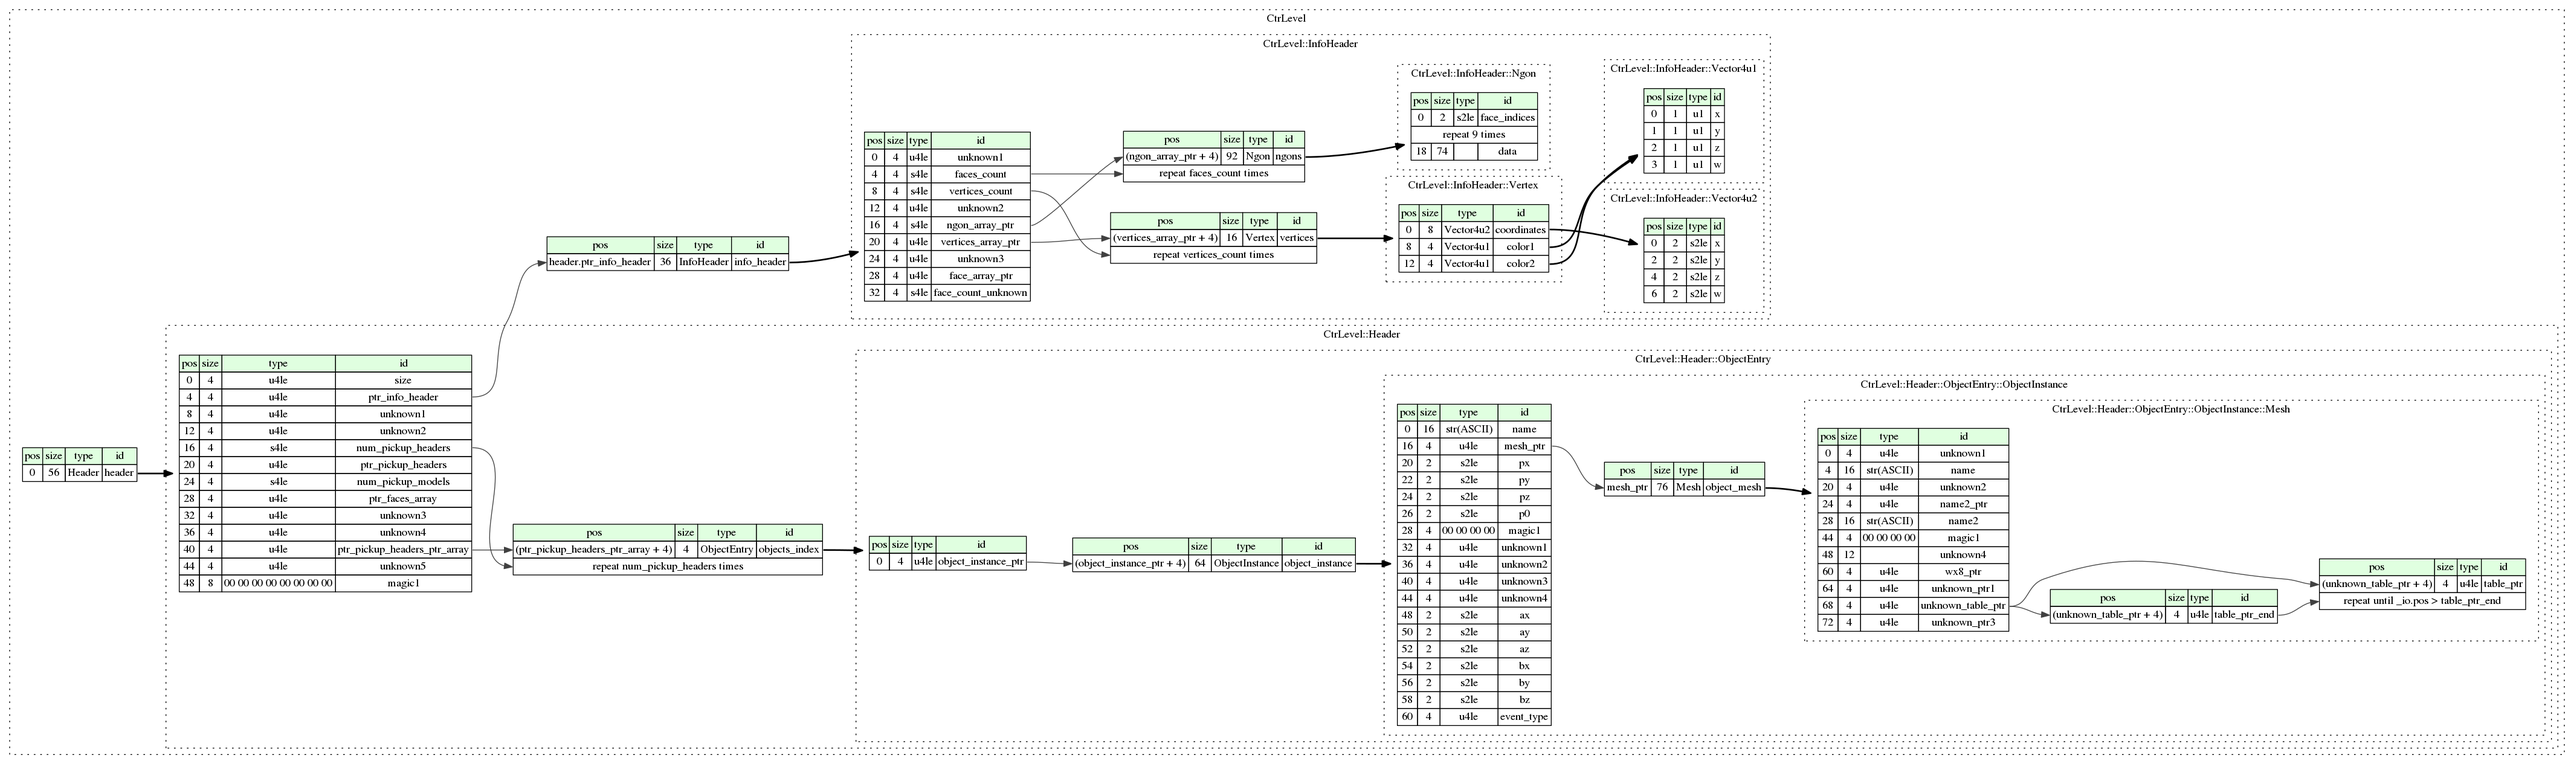
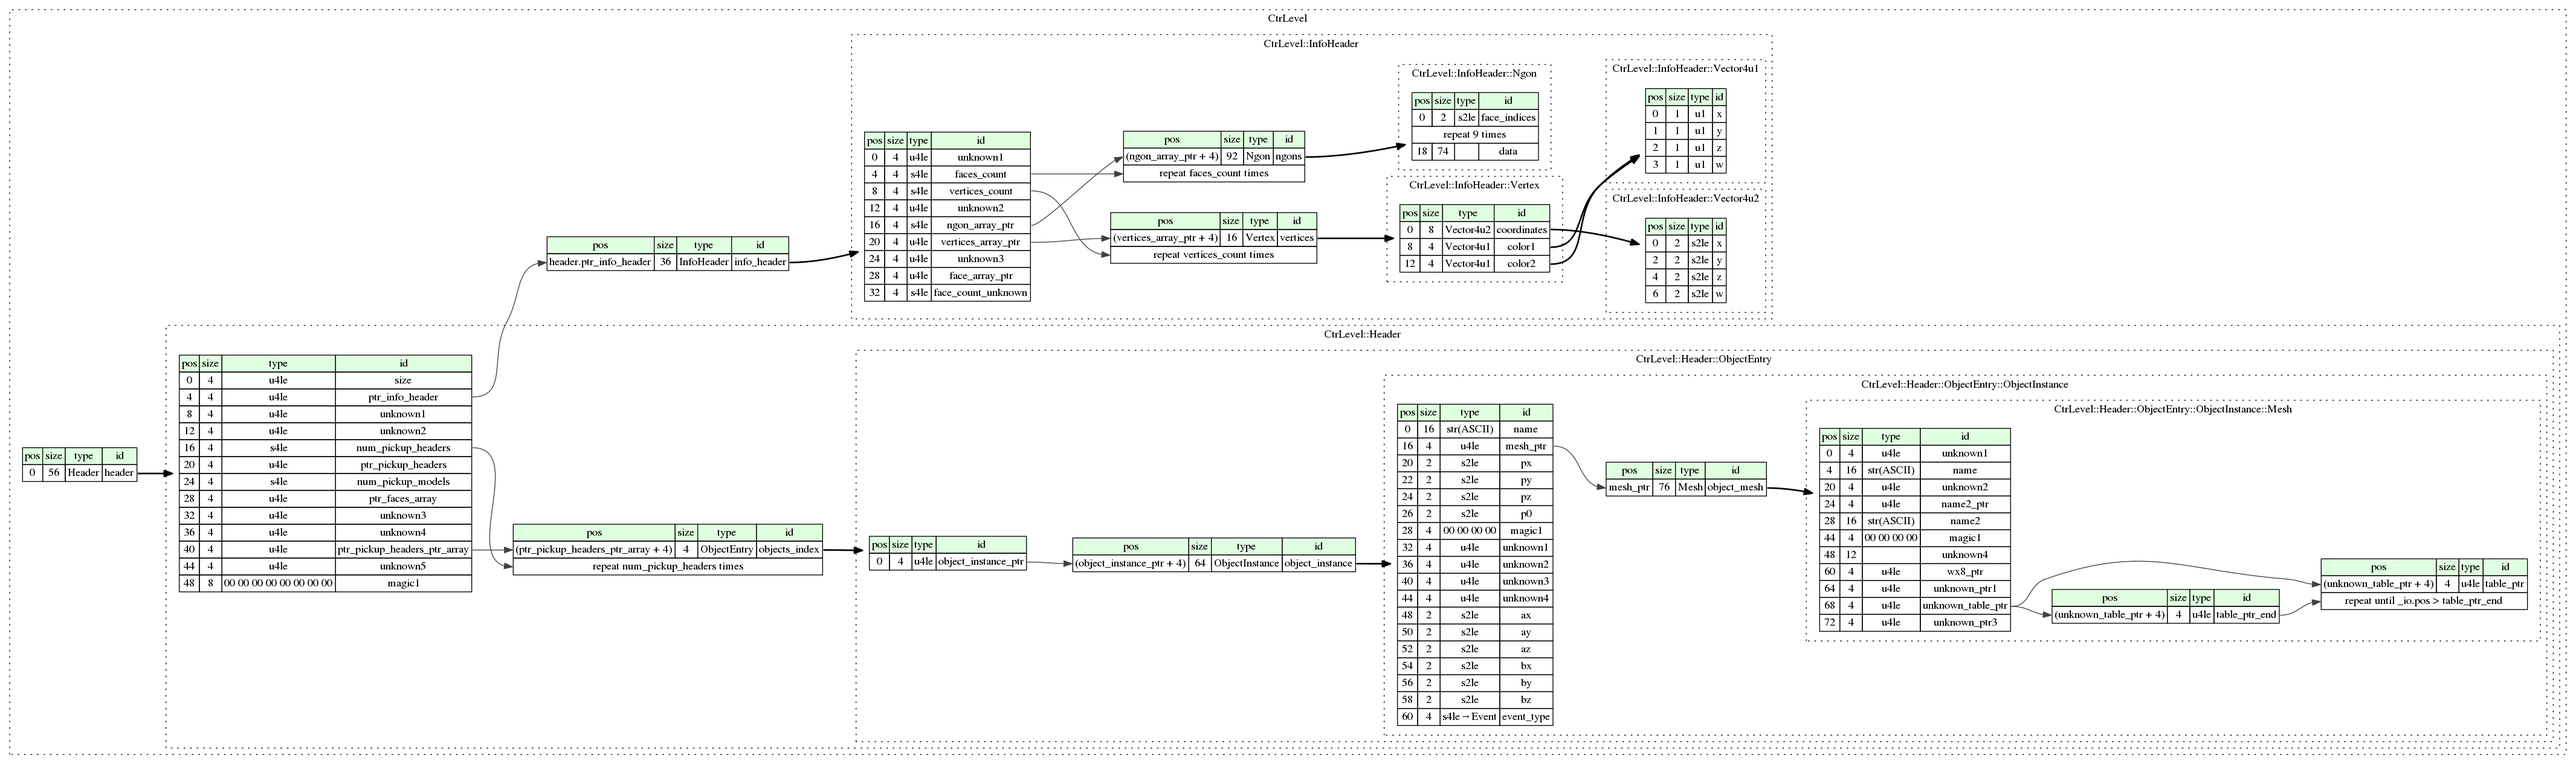
add level events

diff --git a/csharp/ctr/CtrLevel.cs b/csharp/ctr/CtrLevel.cs
@@ -84,6 +84,73 @@ namespace ctr
                         return new ObjectInstance(new KaitaiStream(fileName));
                     }
 
+
+                    public enum Event
+                    {
+                        Nothing = -1,
+                        SingleFruit = 2,
+                        CrateNitro = 6,
+                        CrateFruit = 7,
+                        CrateWeapon = 8,
+                        StateBurned = 18,
+                        StateEaten = 19,
+                        StateSquished = 33,
+                        StateSquishedBall = 34,
+                        StateRotatedArmadillo = 36,
+                        StateKilledBlades = 37,
+                        CrateTnt = 39,
+                        PassSeal = 76,
+                        StateSquishedBarrel = 78,
+                        StateTurleJump = 81,
+                        StateRotatedSpider = 82,
+                        StateBurnedInAir = 84,
+                        LabsDrum = 85,
+                        Pipe = 87,
+                        Vent = 89,
+                        StateCastleSign = 91,
+                        CrateRelic1 = 92,
+                        Crystal = 96,
+                        CrateRelic2 = 100,
+                        CrateRelic3 = 101,
+                        WarpPad = 108,
+                        Teeth = 112,
+                        SaveScreen = 114,
+                        GaragePin = 115,
+                        GaragePapu = 116,
+                        GarageRoo = 117,
+                        GarageJoe = 118,
+                        GarageOxide = 119,
+                        DoorUnknown = 122,
+                        PenguinLose = 139,
+                        LetterC = 147,
+                        LetterT = 148,
+                        LetterR = 149,
+                        Crashsleep = 150,
+                        IntroCoco = 151,
+                        IntroCortex = 152,
+                        IntroTiny = 153,
+                        IntroPolar = 154,
+                        IntroDingo = 155,
+                        XxIntroBeamGlow = 157,
+                        IntroTinyKart = 158,
+                        IntroDingoKart = 159,
+                        XxIntro1 = 160,
+                        XxIntro2 = 161,
+                        Introoxidebody = 165,
+                        FinishLap = 166,
+                        IntroFlash = 204,
+                        CrashSelect = 206,
+                        CortexSelect = 207,
+                        TinySelect = 208,
+                        CocoSelect = 209,
+                        NginSelect = 210,
+                        DingoSelect = 211,
+                        PolarSelect = 212,
+                        PuraSelect = 213,
+                        OxideSpeaker = 223,
+                        IntroSparks = 224,
+                        HubDoor = 225,
+                    }
                     public ObjectInstance(KaitaiStream p__io, CtrLevel.Header.ObjectEntry p__parent = null, CtrLevel p__root = null) : base(p__io)
                     {
                         m_parent = p__parent;
@@ -110,7 +177,7 @@ namespace ctr
                         _bx = m_io.ReadS2le();
                         _by = m_io.ReadS2le();
                         _bz = m_io.ReadS2le();
-                        _eventType = m_io.ReadU4le();
+                        _eventType = ((Event) m_io.ReadS4le());
                     }
                     public partial class Mesh : KaitaiStruct
                     {
@@ -263,7 +330,7 @@ namespace ctr
                     private short _bx;
                     private short _by;
                     private short _bz;
-                    private uint _eventType;
+                    private Event _eventType;
                     private CtrLevel m_root;
                     private CtrLevel.Header.ObjectEntry m_parent;
                     public string Name { get { return _name; } }
@@ -286,8 +353,9 @@ namespace ctr
 
                     /// <summary>
                     /// https://github.com/DCxDemo/CTR-tools/blob/master/formats/formats.txt
+                    /// https://github.com/DCxDemo/CTR-tools/blob/fab0fbd5802d01e9897a5455f78a2de7ed6356be/ctr-tools/levTool/CTR/PickupHeader.cs
                     /// </summary>
-                    public uint EventType { get { return _eventType; } }
+                    public Event EventType { get { return _eventType; } }
                     public CtrLevel M_Root { get { return m_root; } }
                     public CtrLevel.Header.ObjectEntry M_Parent { get { return m_parent; } }
                 }

diff --git a/python/ctr/ctr_level.py b/python/ctr/ctr_level.py
@@ -2,6 +2,7 @@
 
 from pkg_resources import parse_version
 from kaitaistruct import __version__ as ks_version, KaitaiStruct, KaitaiStream, BytesIO
+from enum import Enum
 
 
 if parse_version(ks_version) < parse_version('0.7'):
@@ -54,6 +55,71 @@ class CtrLevel(KaitaiStruct):
                 self.object_instance_ptr = self._io.read_u4le()
 
             class ObjectInstance(KaitaiStruct):
+
+                class Event(Enum):
+                    nothing = -1
+                    single_fruit = 2
+                    crate_nitro = 6
+                    crate_fruit = 7
+                    crate_weapon = 8
+                    state_burned = 18
+                    state_eaten = 19
+                    state_squished = 33
+                    state_squished_ball = 34
+                    state_rotated_armadillo = 36
+                    state_killed_blades = 37
+                    crate_tnt = 39
+                    pass_seal = 76
+                    state_squished_barrel = 78
+                    state_turle_jump = 81
+                    state_rotated_spider = 82
+                    state_burned_in_air = 84
+                    labs_drum = 85
+                    pipe = 87
+                    vent = 89
+                    state_castle_sign = 91
+                    crate_relic1 = 92
+                    crystal = 96
+                    crate_relic2 = 100
+                    crate_relic3 = 101
+                    warp_pad = 108
+                    teeth = 112
+                    save_screen = 114
+                    garage_pin = 115
+                    garage_papu = 116
+                    garage_roo = 117
+                    garage_joe = 118
+                    garage_oxide = 119
+                    door_unknown = 122
+                    penguin_lose = 139
+                    letter_c = 147
+                    letter_t = 148
+                    letter_r = 149
+                    crashsleep = 150
+                    intro_coco = 151
+                    intro_cortex = 152
+                    intro_tiny = 153
+                    intro_polar = 154
+                    intro_dingo = 155
+                    xx_intro_beam_glow = 157
+                    intro_tiny_kart = 158
+                    intro_dingo_kart = 159
+                    xx_intro_1 = 160
+                    xx_intro_2 = 161
+                    introoxidebody = 165
+                    finish_lap = 166
+                    intro_flash = 204
+                    crash_select = 206
+                    cortex_select = 207
+                    tiny_select = 208
+                    coco_select = 209
+                    ngin_select = 210
+                    dingo_select = 211
+                    polar_select = 212
+                    pura_select = 213
+                    oxide_speaker = 223
+                    intro_sparks = 224
+                    hub_door = 225
                 def __init__(self, _io, _parent=None, _root=None):
                     self._io = _io
                     self._parent = _parent
@@ -78,7 +144,7 @@ class CtrLevel(KaitaiStruct):
                     self.bx = self._io.read_s2le()
                     self.by = self._io.read_s2le()
                     self.bz = self._io.read_s2le()
-                    self.event_type = self._io.read_u4le()
+                    self.event_type = self._root.Header.ObjectEntry.ObjectInstance.Event(self._io.read_s4le())
 
                 class Mesh(KaitaiStruct):
                     def __init__(self, _io, _parent=None, _root=None):
